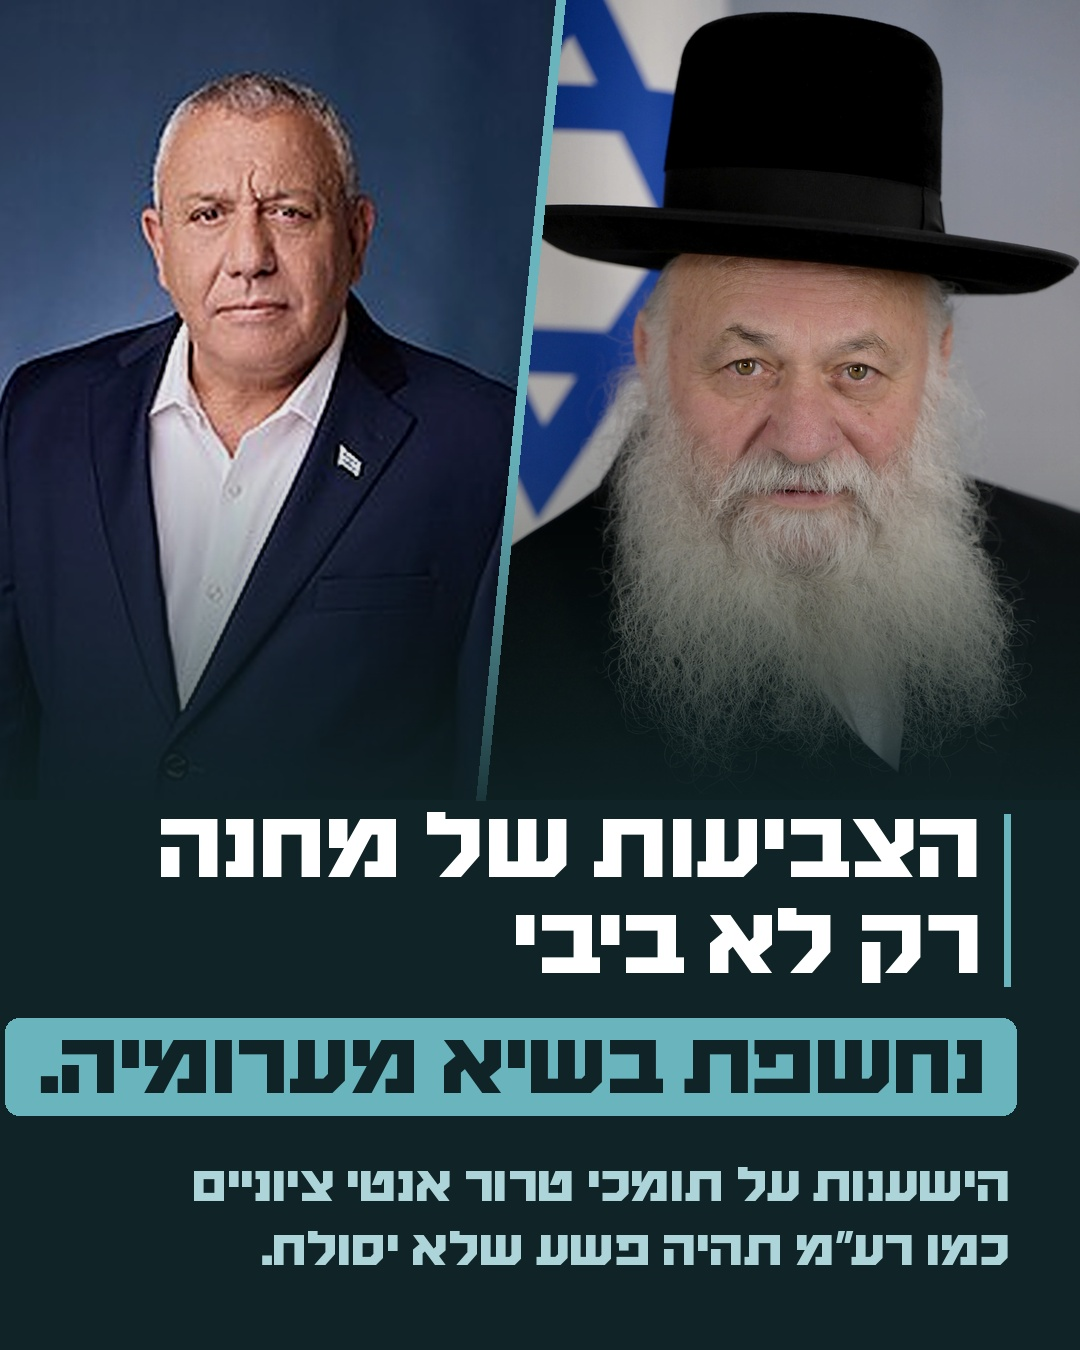
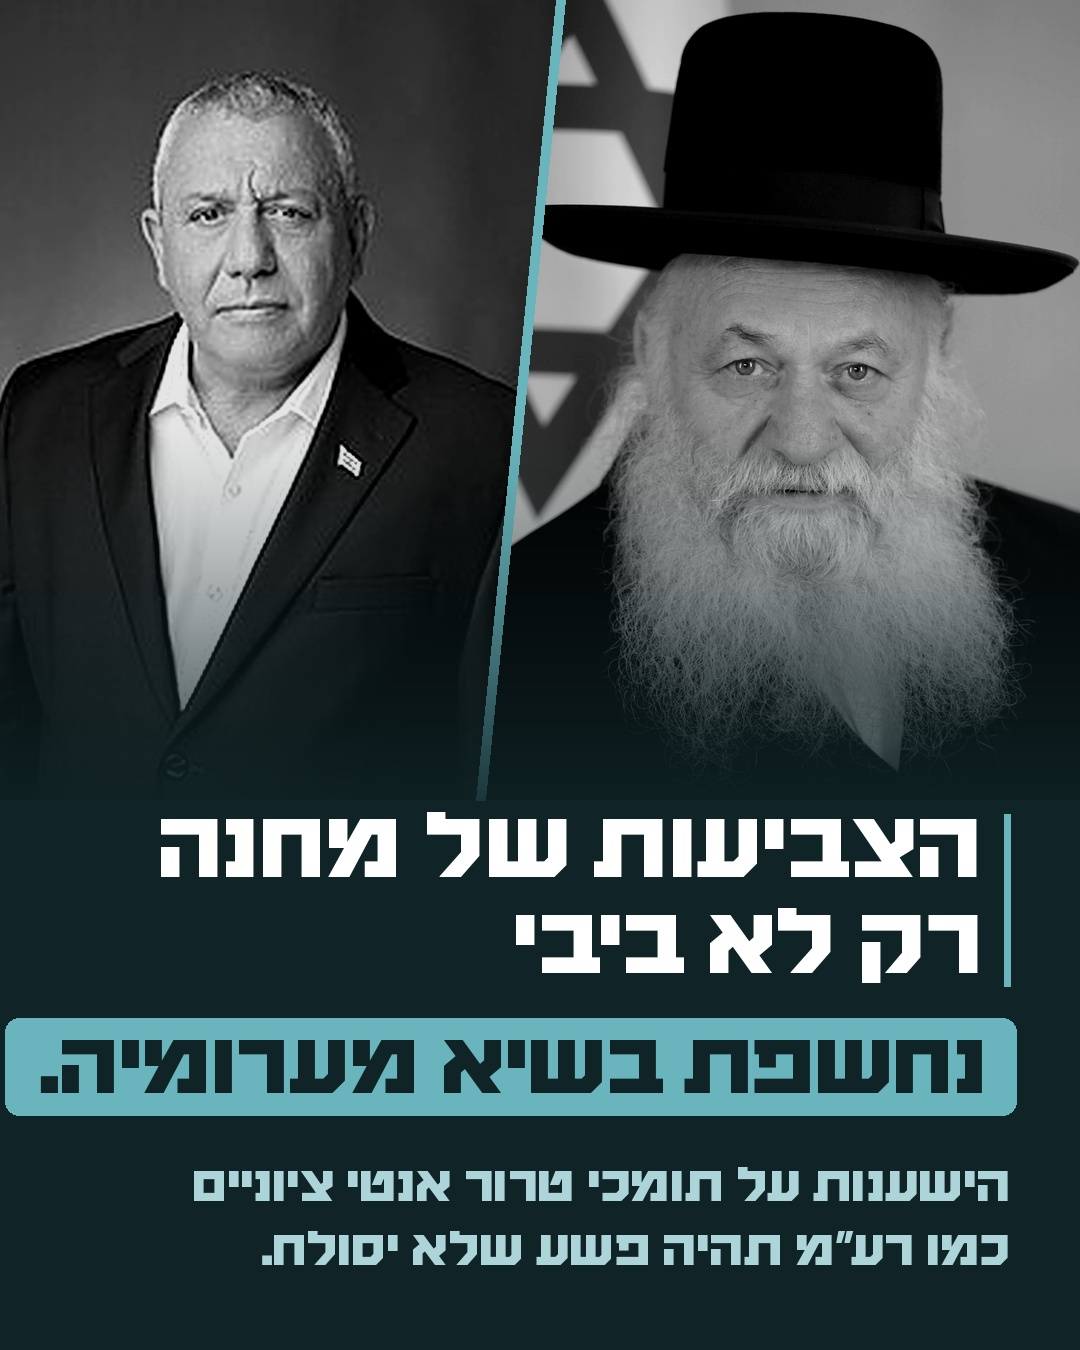
Hypocrisy post: B&W portraits
Claude-Session: https://claude.ai/code/session_01RS3QK6pAd3YhyAuXZSJjH1

Changed region(s): [[0.0, 0.0, 0.8861, 0.4044]]

diff --git a/content-kit/hatzionut-hadatit/2026-11-post-hypocrisy-haredim/make.py b/content-kit/hatzionut-hadatit/2026-11-post-hypocrisy-haredim/make.py
@@ -10,7 +10,7 @@ def portrait(path, cen, w):
     im = Image.open(path).convert('RGB')
     if im.width < 600: im = im.resize((im.width * 3, im.height * 3), Image.LANCZOS).filter(ImageFilter.UnsharpMask(2, 60, 2))
     im = ImageOps.fit(im, (w, PH), Image.LANCZOS, centering=cen)
-    im = ImageEnhance.Color(im).enhance(.85); return ImageEnhance.Brightness(im).enhance(.92)
+    im = ImageOps.grayscale(im).convert('RGB'); im = ImageEnhance.Contrast(im).enhance(1.15); return ImageEnhance.Brightness(im).enhance(.9)
 base = Image.new('RGB', (W, H), NIGHT)
 L = portrait(HERE + '/eisenkot.jpg', (.5, .35), 640)      # left
 R = portrait(HERE + '/goldknopf.jpg', (.5, .25), 640)     # right
